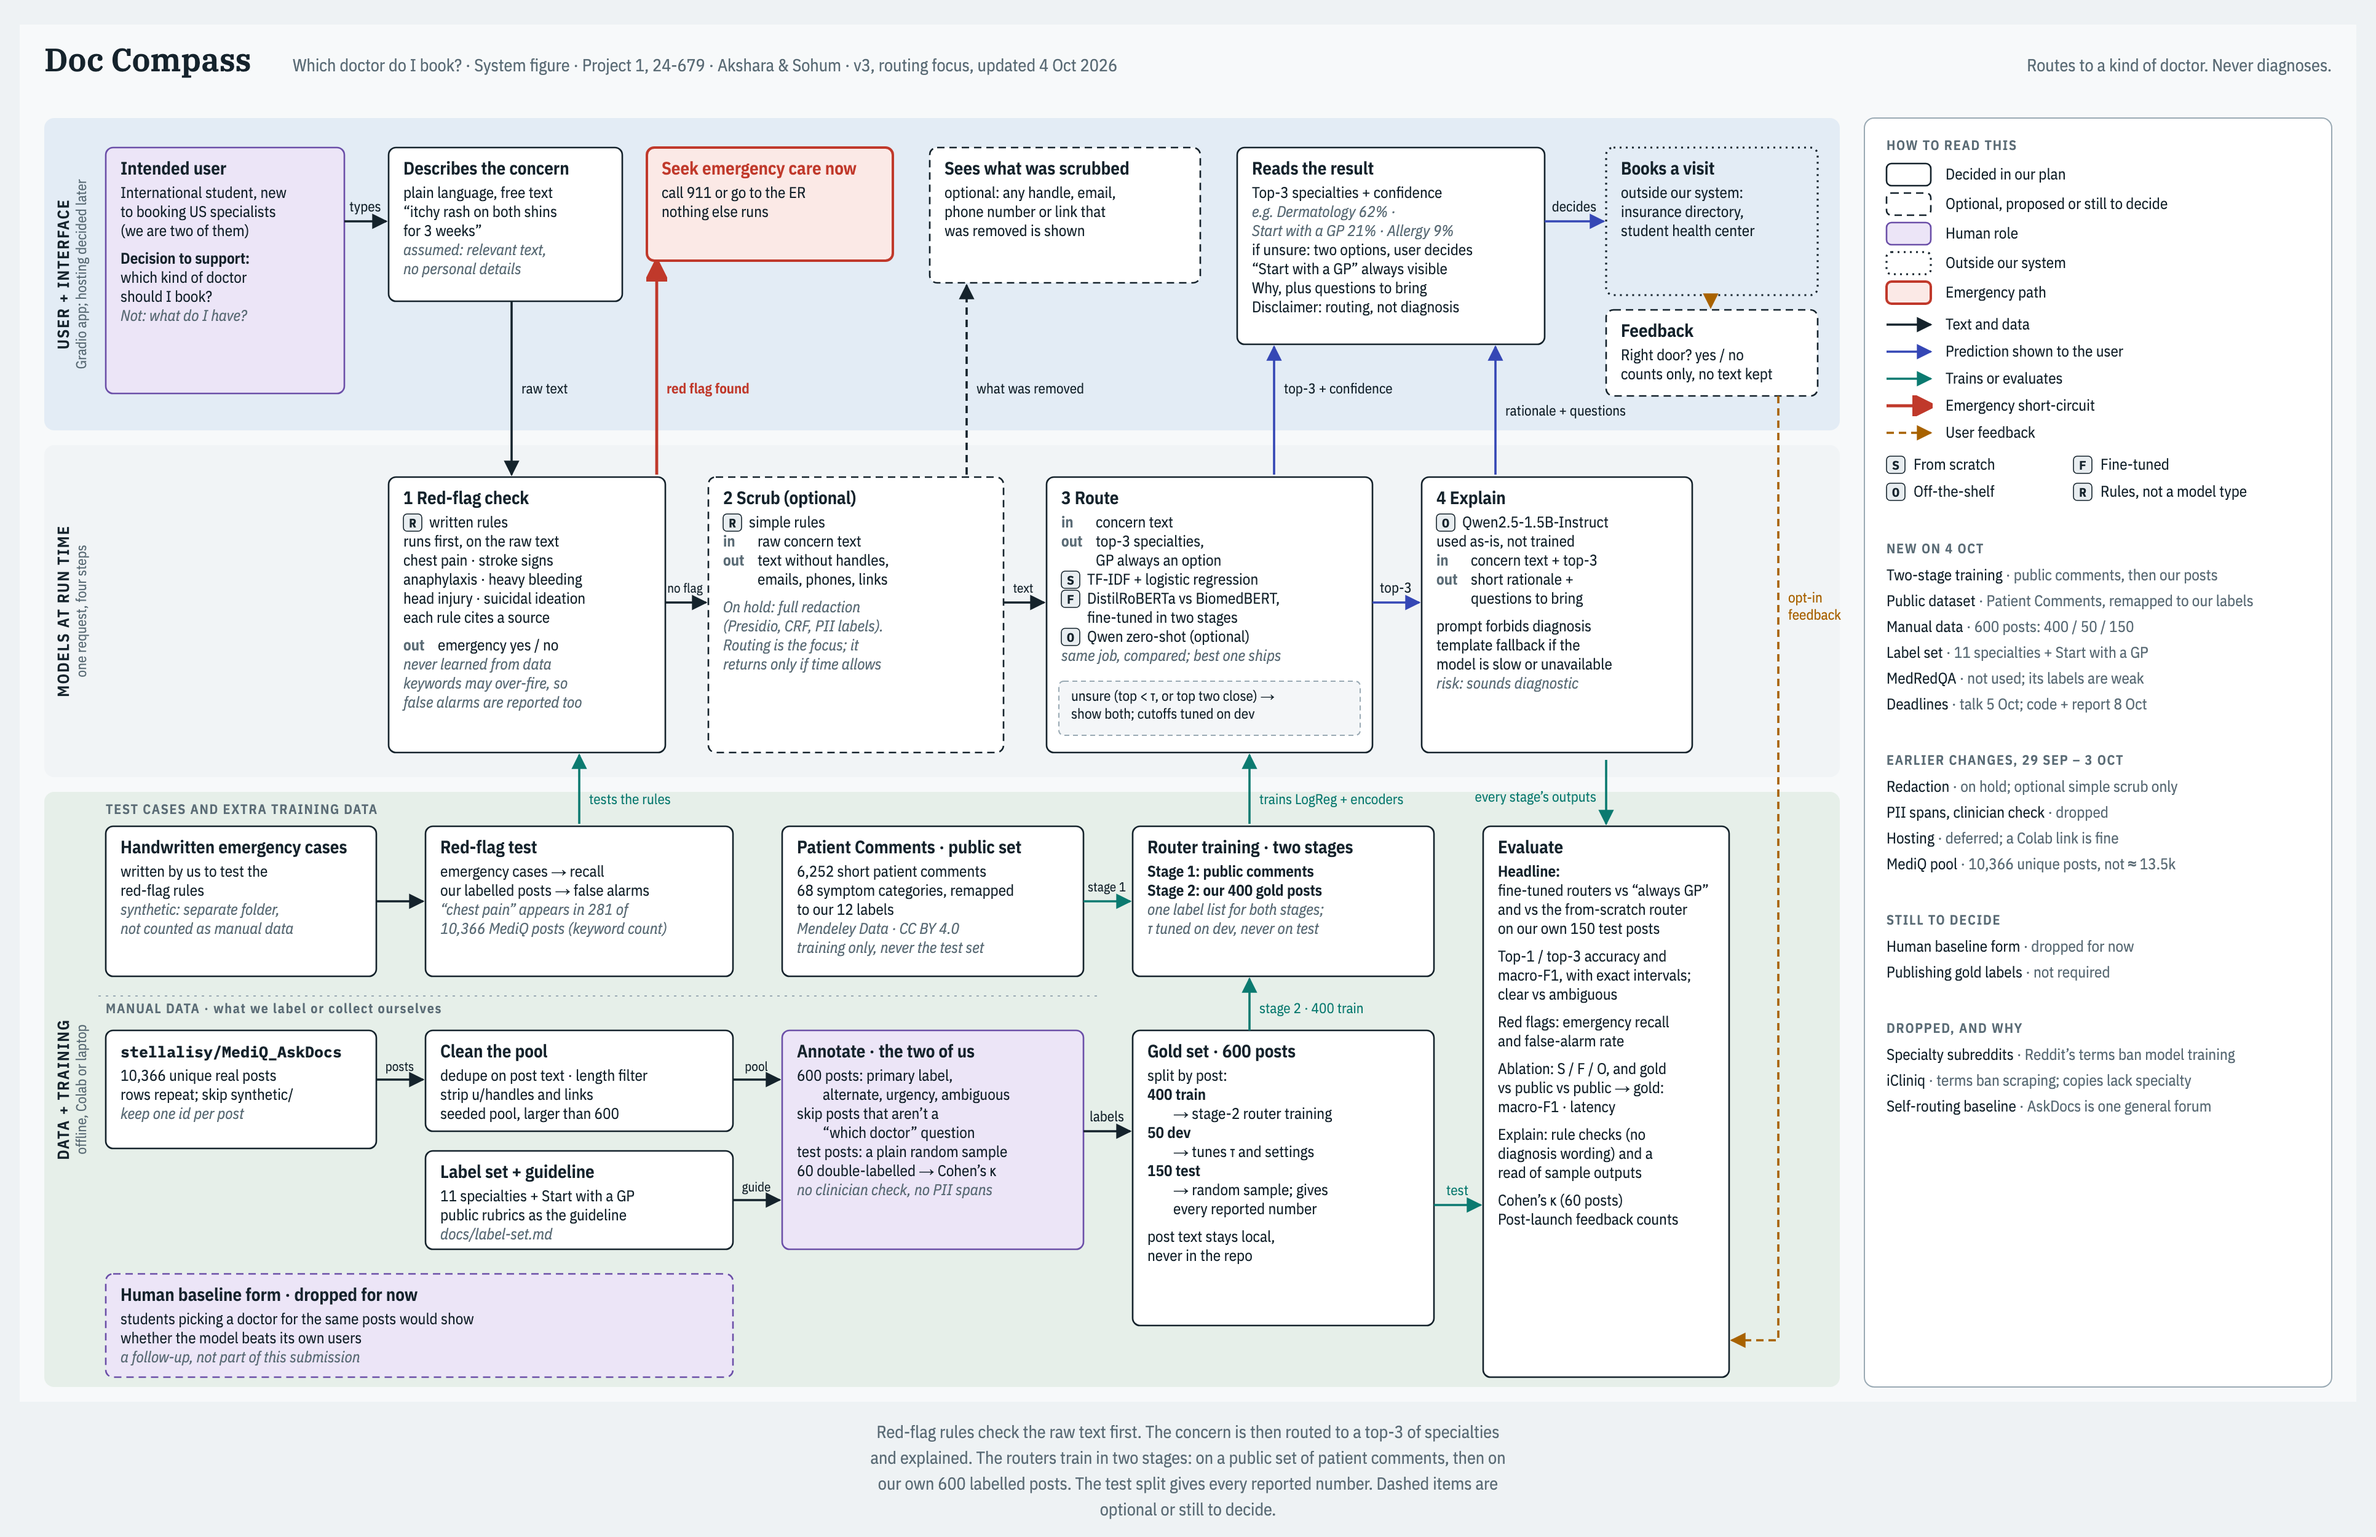
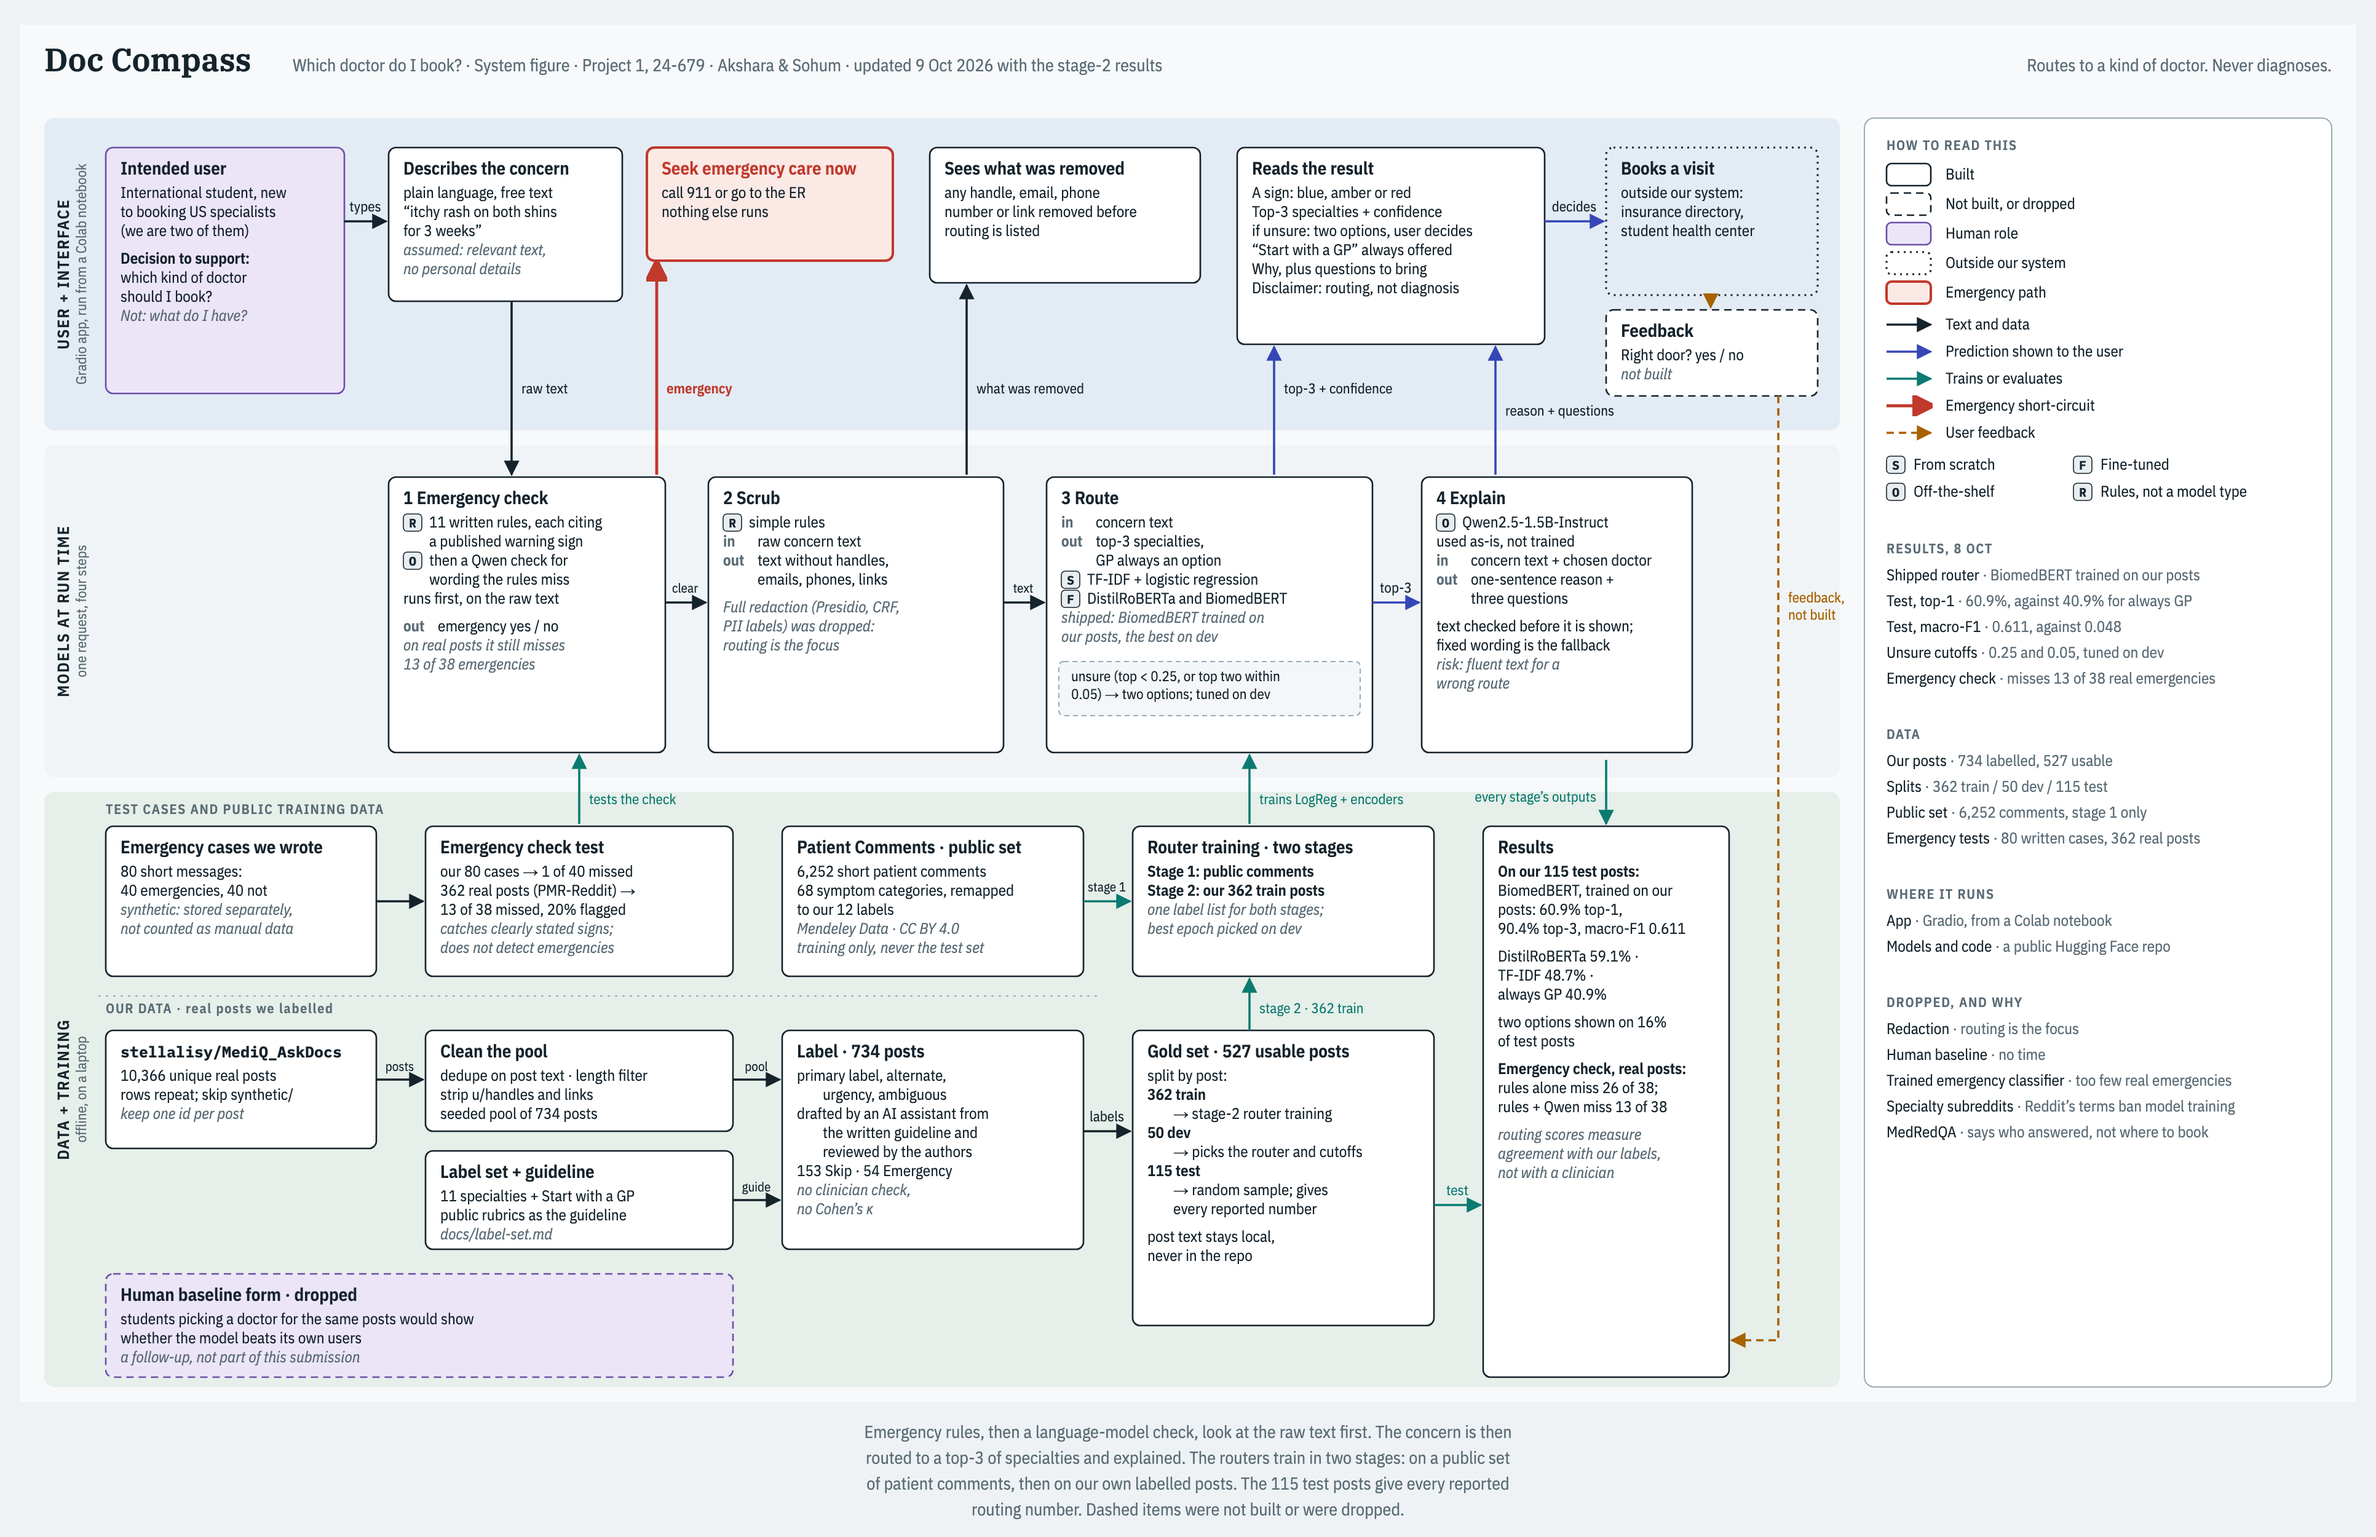
Update the system figure with the stage-2 results
The figure still showed the 4 Oct plan (600 posts, 400/50/150, Cohen's kappa).
It now shows what was built: 734 labelled posts, 362/50/115, the shipped router
and its test scores, the tuned cutoffs and the two-layer emergency check.

diff --git a/docs/plan.md b/docs/plan.md
@@ -17,7 +17,7 @@ A specialist router. Describe a health concern in plain language and get told wh
 | Annotation | AI-drafted, then reviewed by the authors. No Cohen's κ. The review tool and merge script are ready for a recorded review (`docs/labelling.md`) |
 | Completion estimate | ≈ 65% with this scope (the v1 scope was ≈ 25% in one week) |
 
-System figure: `docs/system-figure.png` (4 Oct). Label set and public-data mapping: `docs/label-set.md`.
+System figure: `docs/system-figure.png` (9 Oct, with the stage-2 results). Label set and public-data mapping: `docs/label-set.md`.
 
 ---
 
